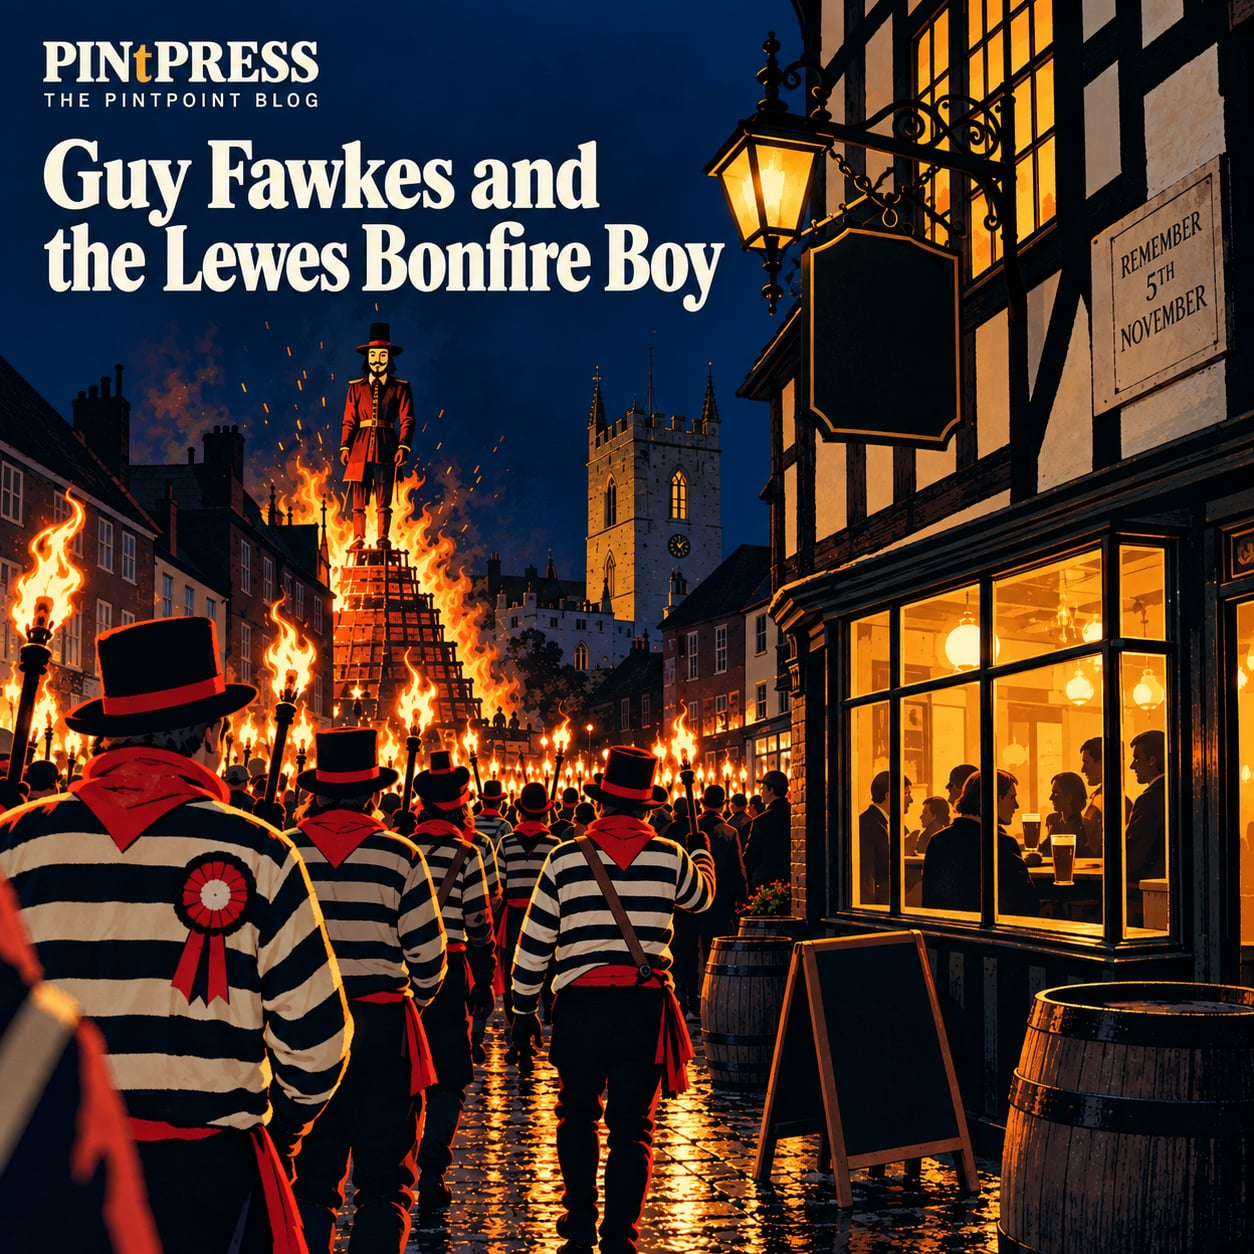
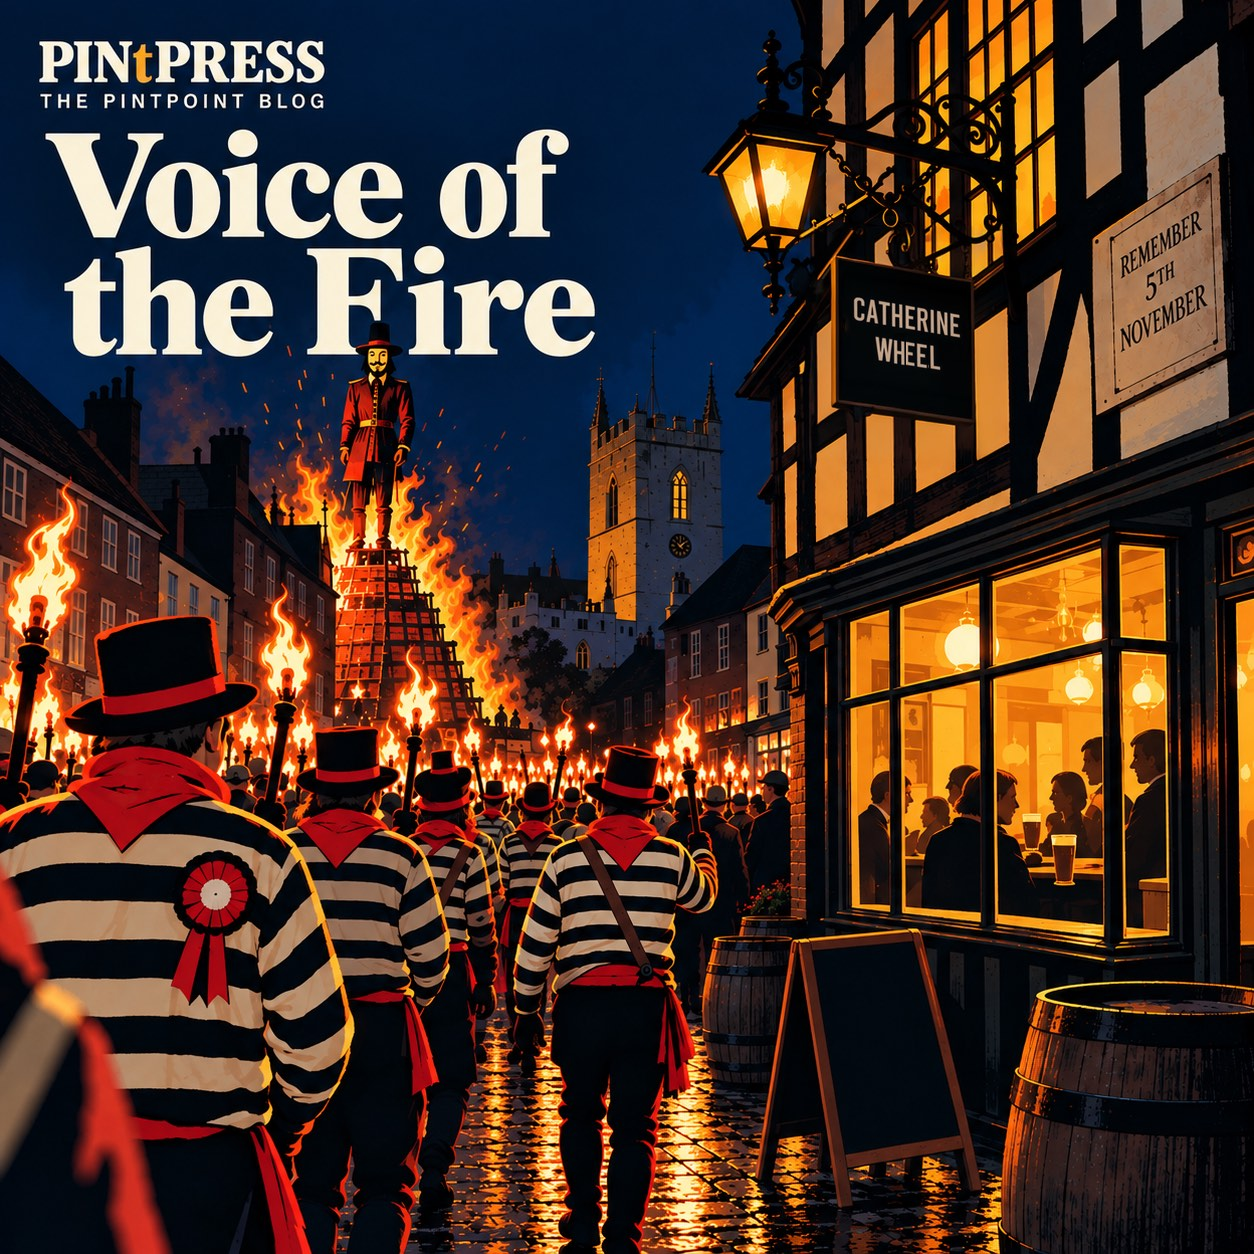
Voice of the Fire: cover deployed, and the article loses its "The"
The cover came back titled "Voice of the Fire" and was right to. That is
Alan Moore's actual title - no definite article - so the h1 has been
brought into line rather than the other way round. Fixed across the
article, the companion boxes in all three siblings, the hub and the
prompt file.

The artwork is otherwise untouched, which was the point: the Lewes
composition was already the strongest of the four, so this was a text
swap rather than a rethink. Back in the house serif too, so it sits with
Oktoberfest and Christmas rather than wearing the Halloween horror face.

One blemish carried knowingly: a pub sign in the frame now reads CATHERINE
WHEEL, where the previous version had a deliberately blank board. There
is no Catherine Wheel in Lewes - it is not in the town's pub lists or the
CAMRA Lewes trail - so that is an invented pub in a real and very
identifiable town, for a piece whose authority rests on getting Lewes
right. Shipping anyway because the live cover still carried the OLD title,
which is the worse error, and this is a one-word tidy that can follow.

(It is at least a witty invention: a catherine wheel is a firework.)

1254x1254, 431KB.

Claude-Session: https://claude.ai/code/session_01Pk4X9k7dSDBKykffX1undZ

diff --git a/blog/drafts/lewes-bonfire-boy.html b/blog/drafts/lewes-bonfire-boy.html
@@ -4,13 +4,13 @@
   <meta charset="UTF-8" />
   <meta name="viewport" content="width=device-width, initial-scale=1.0" />
   <meta name="robots" content="noindex,nofollow" />
-  <title>The Voice of the Fire — PINtPRESS</title>
+  <title>Voice of the Fire — PINtPRESS</title>
   <meta name="description" content="Lewes Bonfire lapsed in the 1700s, was rebuilt by young men with tar barrels in the 1820s, and burns a Pope for Victorian reasons. It is still the most honest festival in England — and Harvey's brew for it from inside the town." />
   <link rel="icon" type="image/png" href="/favicon.png" />
   <link rel="canonical" href="https://pintpoint.co.uk/blog/drafts/lewes-bonfire-boy.html" />
   <link rel="alternate" type="application/rss+xml" title="PINtPRESS" href="https://pintpoint.co.uk/blog/feed.xml" />
   <meta property="og:type" content="article" />
-  <meta property="og:title" content="The Voice of the Fire" />
+  <meta property="og:title" content="Voice of the Fire" />
   <meta property="og:description" content="Lewes burns a Pope who had nothing to do with it, for reasons invented in the 1850s, and it is still the most honest festival in England." />
   <meta property="og:image" content="https://pintpoint.co.uk/blog/images/lewes-bonfire-boy.jpg" />
   <meta property="og:image:alt" content="PINtPRESS cover: the Lewes Bonfire procession at night — marchers in black-and-white striped jerseys and top hats carrying torches down a wet high street, a guy raised above the fire, a lit pub window beside them." />
@@ -73,7 +73,7 @@
   </nav>
   <article class="content">
     <p class="meta"><span class="category">Essay</span>5 November 2026 · Beer history · Folklore</p>
-    <h1>The Voice of the <em>Fire</em></h1>
+    <h1>Voice of the <em>Fire</em></h1>
     <p style="color:var(--muted);font-size:1.05rem;margin-top:-4px;margin-bottom:28px">Lewes burns a Pope who had nothing to do with it, for reasons invented in the 1850s, and it is still the most honest festival in England.</p>
 
     <img src="/blog/images/lewes-bonfire-boy.jpg" alt="PINtPRESS cover: the Lewes Bonfire procession at night — marchers in black-and-white striped jerseys and top hats carrying torches down a wet high street, a guy raised above the fire, a lit pub window beside them." style="width:100%;border-radius:10px;margin-bottom:28px" />
@@ -143,7 +143,7 @@
       Three essays on who made the season up.
       <ul>
         <li><a href="/blog/green-man-pub-signs.html"><strong>Part 1: Season of the Witch</strong> (31 Oct)</a><br />England's pagan survival, invented in 1939 and named after a pub.</li>
-        <li aria-current="page"><strong>Part 2: The Voice of the Fire</strong> (5 Nov)<span class="here">you are here</span><br />Lewes burns the wrong Pope, for Victorian reasons, and owns every bit of it.</li>
+        <li aria-current="page"><strong>Part 2: Voice of the Fire</strong> (5 Nov)<span class="here">you are here</span><br />Lewes burns the wrong Pope, for Victorian reasons, and owns every bit of it.</li>
         <li><a href="/blog/christmas-ale-drinking-yule.html"><strong>Part 3: Christmas starts at 20:59</strong> (6 Nov)</a><br />A Danish brewery fires a starting pistol; an American brews alone.</li>
       </ul>
       <p style="margin-top:10px"><a href="/blog/unholy-trinity.html">All three, and why they belong together &rarr;</a></p>

diff --git a/blog/drafts/green-man-pub-signs.html b/blog/drafts/green-man-pub-signs.html
@@ -155,7 +155,7 @@
       Three essays on who made the season up.
       <ul>
         <li aria-current="page"><strong>Part 1: Season of the Witch</strong> (31 Oct)<span class="here">you are here</span><br />England's pagan survival, invented in 1939 and named after a pub.</li>
-        <li><a href="/blog/lewes-bonfire-boy.html"><strong>Part 2: The Voice of the Fire</strong> (5 Nov)</a><br />Lewes burns the wrong Pope, for Victorian reasons, and owns every bit of it.</li>
+        <li><a href="/blog/lewes-bonfire-boy.html"><strong>Part 2: Voice of the Fire</strong> (5 Nov)</a><br />Lewes burns the wrong Pope, for Victorian reasons, and owns every bit of it.</li>
         <li><a href="/blog/christmas-ale-drinking-yule.html"><strong>Part 3: Christmas starts at 20:59</strong> (6 Nov)</a><br />A Danish brewery fires a starting pistol; an American brews alone.</li>
       </ul>
       <p style="margin-top:10px"><a href="/blog/unholy-trinity.html">All three, and why they belong together &rarr;</a></p>

diff --git a/blog/drafts/christmas-ale-drinking-yule.html b/blog/drafts/christmas-ale-drinking-yule.html
@@ -146,7 +146,7 @@
       Three essays on who made the season up.
       <ul>
         <li><a href="/blog/green-man-pub-signs.html"><strong>Part 1: Season of the Witch</strong> (31 Oct)</a><br />England's pagan survival, invented in 1939 and named after a pub.</li>
-        <li><a href="/blog/lewes-bonfire-boy.html"><strong>Part 2: The Voice of the Fire</strong> (5 Nov)</a><br />Lewes burns the wrong Pope, for Victorian reasons, and owns every bit of it.</li>
+        <li><a href="/blog/lewes-bonfire-boy.html"><strong>Part 2: Voice of the Fire</strong> (5 Nov)</a><br />Lewes burns the wrong Pope, for Victorian reasons, and owns every bit of it.</li>
         <li aria-current="page"><strong>Part 3: Christmas starts at 20:59</strong> (6 Nov)<span class="here">you are here</span><br />A Danish brewery fires a starting pistol; an American brews alone.</li>
       </ul>
       <p style="margin-top:10px"><a href="/blog/unholy-trinity.html">All three, and why they belong together &rarr;</a></p>

diff --git a/blog/drafts/unholy-trinity.html b/blog/drafts/unholy-trinity.html
@@ -89,7 +89,7 @@
 
     <a class="part" href="/blog/lewes-bonfire-boy.html">
       <span class="when">Part two · Thursday 5 November</span>
-      <h3>The Voice of the Fire</h3>
+      <h3>Voice of the Fire</h3>
       <p>Lewes burns a Pope who had nothing to do with the Gunpowder Plot, for reasons invented in the 1850s, in a celebration that had already lapsed once and been rebuilt by young men with tar barrels. It is still the most honest festival in England — and the brewery that makes the beer for it is inside the town.</p>
       <span class="verdict">Invented by <b>the people who keep it</b>, in public, and they are still arguing.</span>
     </a>
